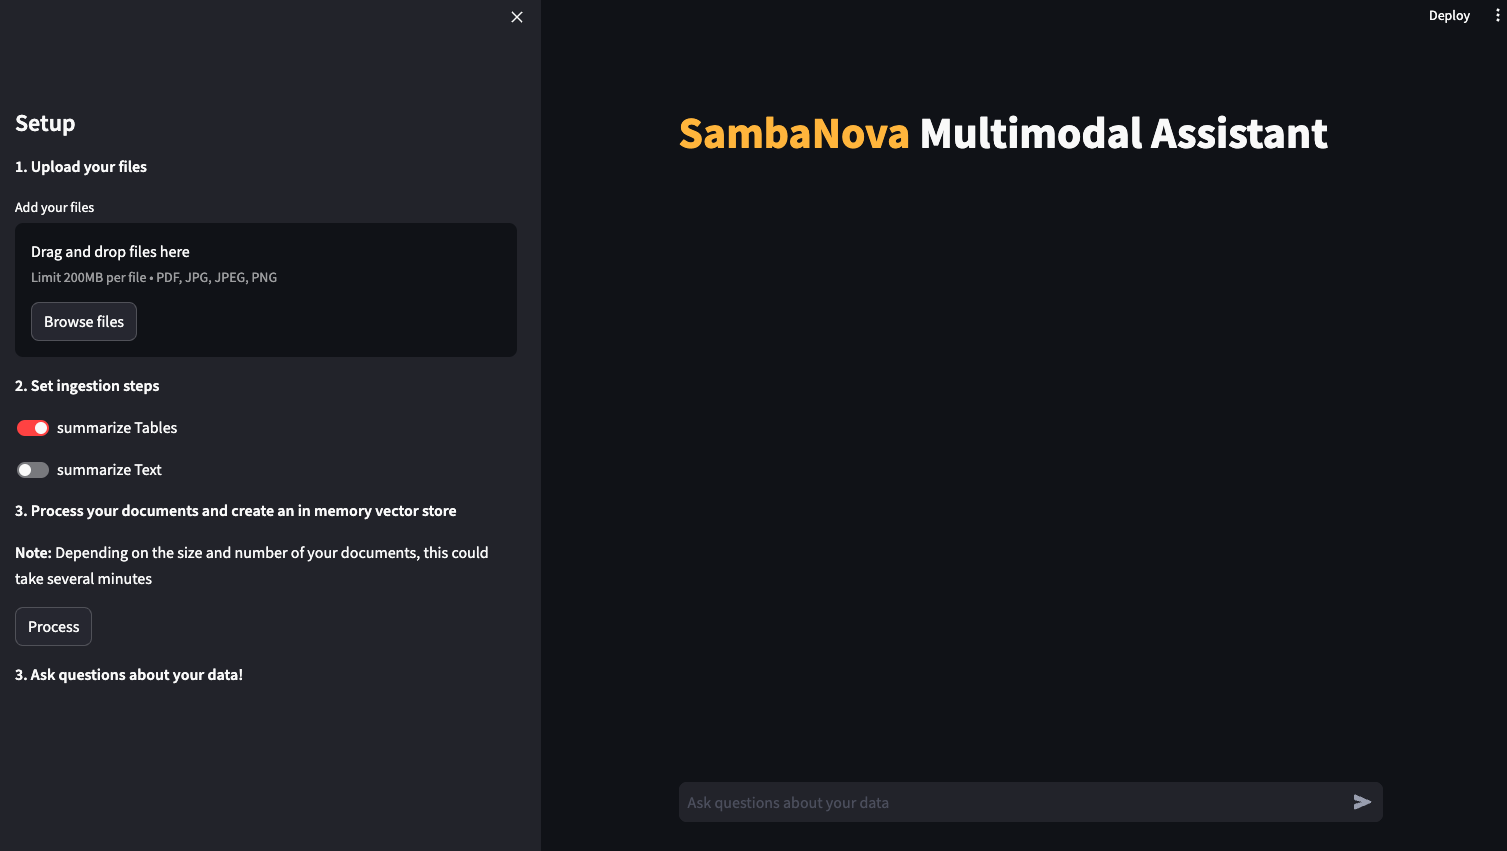
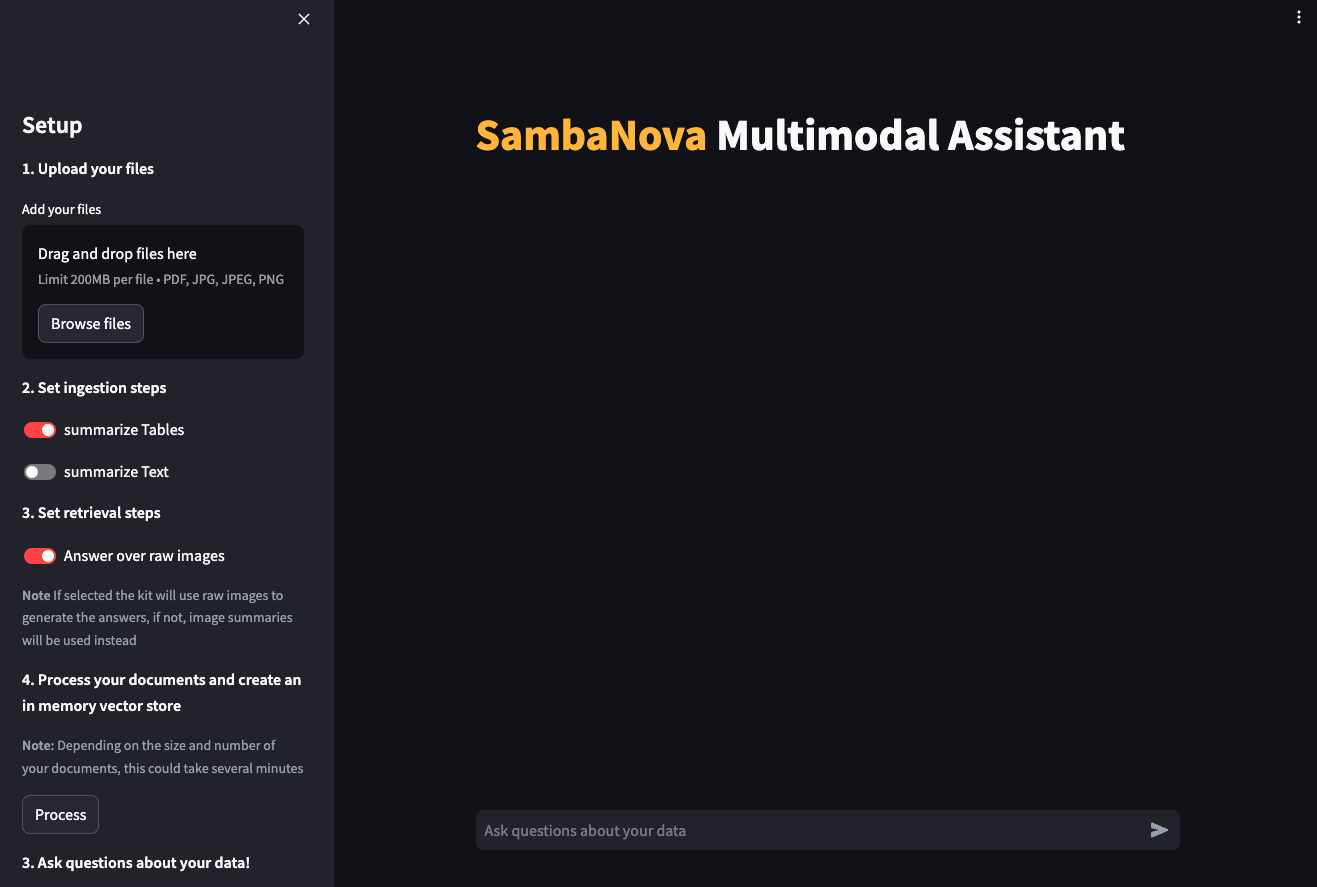
docs updated

diff --git a/multimodal_knowledge_retriever/README.md b/multimodal_knowledge_retriever/README.md
@@ -16,6 +16,7 @@ Multimodal Knowledge Retrieval
     - [Get access to your LLM](#get-access-to-your-llm)
     - [Integrate your models](#integrate-your-models)
     - [Deploy the starter kit](#deploy-the-starter-kit)
+    - [Docker-usage](#docker-usage)
     - [Use the starter kit](#use-the-starter-kit)
 - [Workflow:](#workflow)
     - [Retrieval workflow](#retrieval-workflow)
@@ -162,11 +163,23 @@ After deploying the starter kit you see the following user interface:
 
 ![capture of multimodal_knowledge_retriever_demo](./docs/multimodal_knowledge_app.png)
 
+## Docker-usage
+
+> If you are deploying the docker container in Windows be sure to open the docker desktop application before
+
+To run this with docker, run the command:
+
+    docker-compose up --build
+
+You will be prompted to go to the link (http://localhost:8501/) in your browser where you will be greeted with the streamlit page as above.
+
 ## Use the starter kit 
 
-1. In the **Upload your files** pane, drag and drop or browse for images or PDF files. 
+1. In the **Upload your files** pane, drag and drop or browse for images or PDF files.
 
-2. In the **Set ingetion steps** select processing steps ypu want to apply to the loaded files
+2. In the **Set ingestion steps** select processing steps you want to apply to the loaded files.
+
+3. In the **Set retrieval steps** Select the retrieva lmethod you want to use for answering, see more in [Q&A workflow](#qa).
 
 2. Click **Process** to process all loaded PDFs. A vectorstore is created in memory for making the retrieval process.
 
@@ -198,7 +211,8 @@ This workflow is an example of leveraging data stored in a vector database and d
 
  1.  **Embed query:** Given a user submitted query, the first step is to convert it into a common representation (an embedding) for subsequent use in identifying the most relevant stored content. Because of this, it is recommended to use the *same* embedding model to generate embeddings. In this sample, the query text is embedded using [HuggingFaceInstructEmbeddings](https://api.python.langchain.com/en/latest/embeddings/langchain.embeddings.huggingface.HuggingFaceInstructEmbeddings.html), which is the same model in the ingestion workflow.
  
- 2.  **Retrieve relevant sumamries:** Next, we use the embeddings representation of the query to make a retrieval request from the vector database, which in turn returns *relevant* entries (summaries) in it. The vector database and soc storage therefore also act as a retriever for finding the relevant information and fetching the original chunks from the doc storage.
+  2.  **Retrieve relevant documents** Next, we use the embeddings representation of the query to make a retrieval request from the vector database, which in turn returns *relevant* entries (documents or summaries) in it. The vector database and doc storage therefore also act as a retriever for finding the relevant information and fetching the original chunks from the doc storage.
+
 
 *More information about embeddings and their retrieval [here](https://pub.aimind.so/llm-embeddings-explained-simply-f7536d3d0e4b)*
  
@@ -208,9 +222,11 @@ This workflow is an example of leveraging data stored in a vector database and d
 
 ## Q&A
 
-After the relevant information is retrieved, the content is sent to a SambaNova LLM to generate a final response to the user query.
+After the relevant information is retrieved, if answer over raw images is disabled, the content (table and text documents/summaries, and images summaries) are directly sent to a SambaNova LLM to generate a final response to the user query.
 
-The user's query is combined with the retrieved content along with instructions to form the prompt before being sent to the LLM. This process involves prompt engineering, and is an important part of ensuring quality output. In this AI starter kit, customized prompts are provided to the LLM to improve the quality of response for this use case.
+If answer over raw images is enabled, the retrieved raw images ans query are send alongside to the LVLM, getting intermediate answers to the query with each images, these intermediate answers are included with relevant text and table documents/summaries to be used as context
+
+The user's query is combined with the retrieved context along with instructions to form the prompt before being sent to the LLM. This process involves prompt engineering, and is an important part of ensuring quality output. In this AI starter kit, customized prompts are provided to the LLM to improve the quality of response for this use case.
 
 *Learn more about [Prompt engineering](https://www.promptingguide.ai/)*
 
@@ -284,7 +300,7 @@ file: [config.yaml](config.yaml)
 and
 file: [app.py](strematil/app.py)
 ```
-function: get_qa_retrieval_chain 
+function: get_retrieval_chain 
 ```
 
 ## Large language model (LLM)
